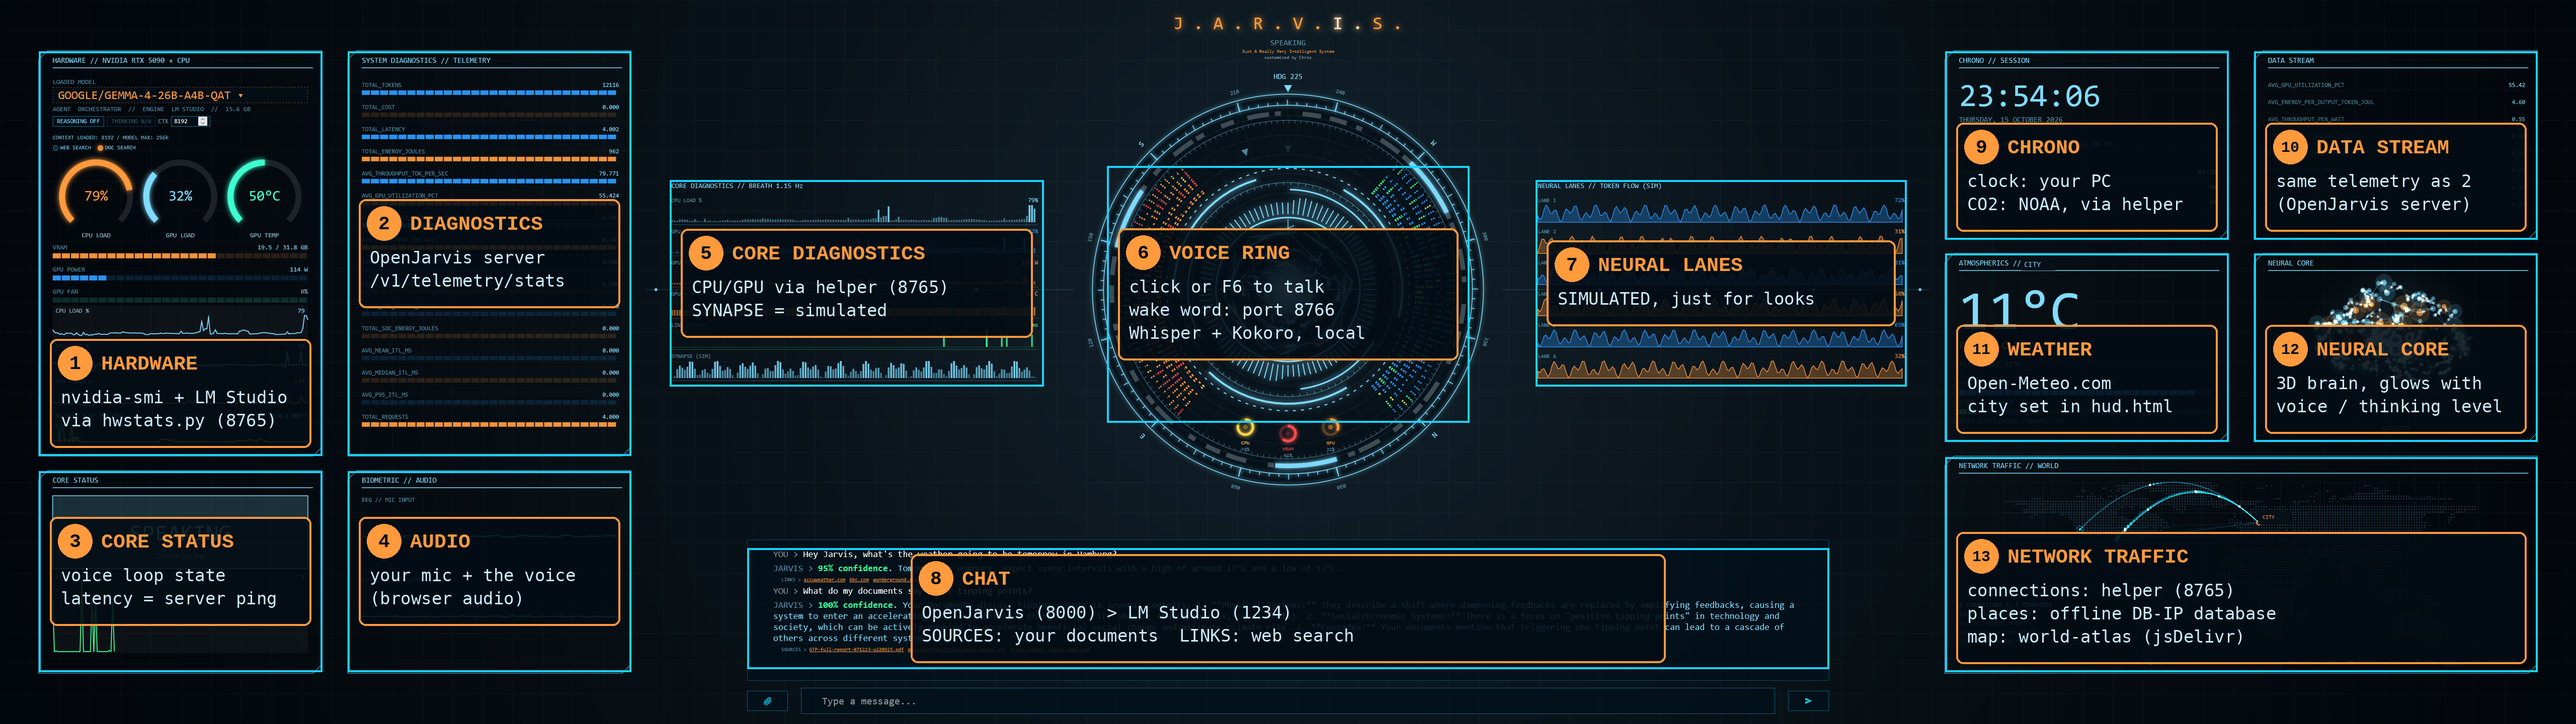
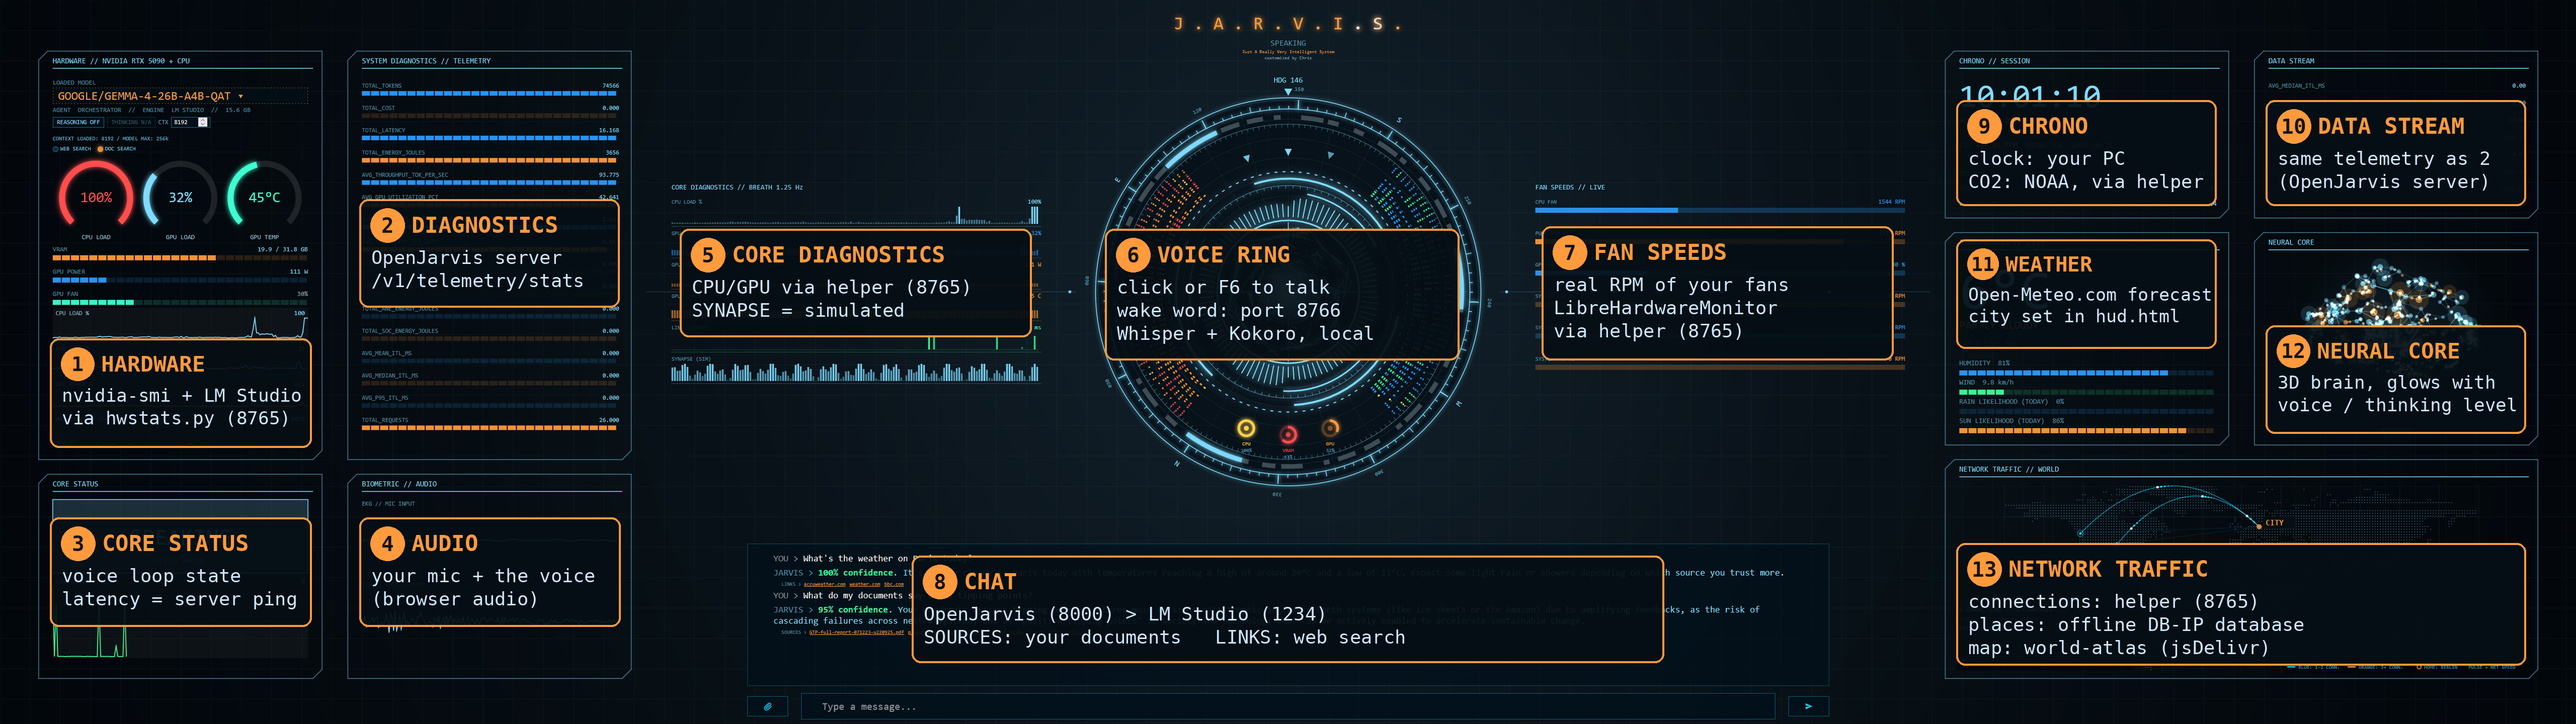
Update HUD screenshots: live fan speeds panel, sun likelihood row
README table: panel 7 is now real fan speeds, weather row mentions sun likelihood.

Claude-Session: https://claude.ai/code/session_01G5KnUP6fmYi5ijaJWDqeMt

Changed region(s): [[0.0, 0.0625, 1.0, 0.9375], [0.2812, 0.75, 0.7188, 1.0], [0.0, 0.625, 0.25, 0.9375]]

diff --git a/README.md b/README.md
@@ -86,11 +86,11 @@ See the annotated screenshot at the top. Here is the same information as text:
 | 4 | Audio | level of your microphone and of Jarvis's voice (browser audio) |
 | 5 | Core diagnostics | CPU/GPU charts from the helper. "SYNAPSE" is simulated |
 | 6 | Voice ring | click or F6. Wake word: `tools/npu/wake_service.py` (8766). Whisper and Kokoro run locally |
-| 7 | Neural lanes | simulated, just for looks |
+| 7 | Fan speeds | real fan speeds (RPM) from LibreHardwareMonitor via the helper; the GPU fan comes from `nvidia-smi` |
 | 8 | Chat | OpenJarvis (8000) to LM Studio (1234). Sources = your documents, links = web search |
 | 9 | Chrono | your PC clock; CO2 from NOAA Mauna Loa, fetched by the helper |
 | 10 | Data stream | the same telemetry as panel 2 |
-| 11 | Weather | Open-Meteo.com for the city you set |
+| 11 | Weather | Open-Meteo.com for the city you set (temperature, wind, rain and sun likelihood for today) |
 | 12 | Neural core | glows with voice level and "thinking" |
 | 13 | Network traffic | connections from the helper, places from an offline DB-IP database |
 
